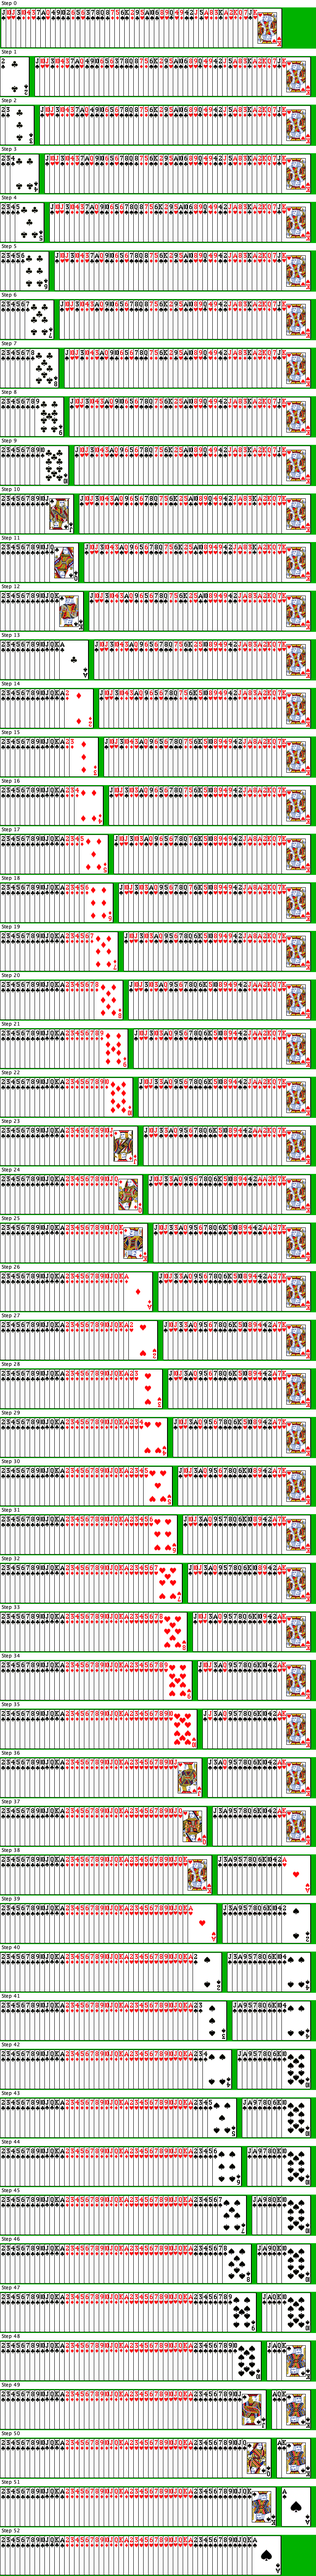
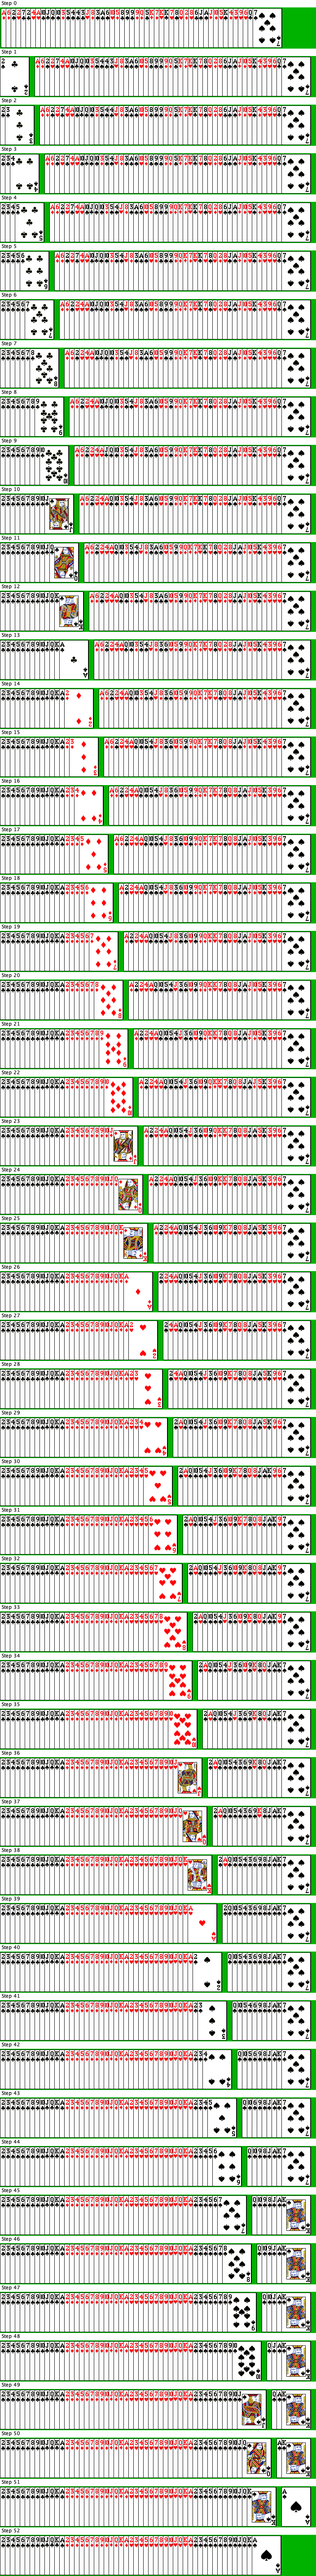
Insertion sort

diff --git a/InsertionSort.java b/InsertionSort.java
@@ -1,13 +1,51 @@
+import java.util.Collections;
+import java.util.ListIterator;
+
+/**
+ * Program to sort cards via Insertion Sort
+ * Sorting algorithm that 
+ * 
+ * @author Abigail Lei
+ * @version March 2026
+ */
 public class InsertionSort {
   
+  public static CardPile sort(CardPile unsorted) {
+    return sort(unsorted, null);
+  }
   public static CardPile sort(CardPile unsorted, SortRecorder record) {
     
     // register the starting configuration with the recorder
-    record.add(unsorted);
+    if (record != null) {
+      record.add(unsorted);
+    }
 
     // Here is the result list you will be creating
     CardPile sorted = new CardPile();
   
+    while (unsorted.size() > 0) {
+      Card added = unsorted.removeFirst();
+      ListIterator<Card> iterator = sorted.listIterator();
+      
+      while (iterator.hasNext()) {
+        Card current = iterator.next();
+        if (added.compareTo(current) <= 0) {
+          iterator.previous();
+          iterator.add(added);
+          break;
+        }
+      }
+      
+      if (!iterator.hasNext()) {
+        iterator.add(added);
+      }
+
+      if (record != null) {
+        record.next();
+        record.add(sorted);
+        record.add(unsorted);
+      }
+    }
     // ***********************************************************
     // Here is where you'll do the "work" of InsertionSort:
     //   - Use sorted to store the "sorted portion"
@@ -18,5 +56,29 @@ public class InsertionSort {
 
     // return the sorted result here
     return sorted;
+  }
+
+    public static void main(String[] args) {
+      SortRecorder recorder = new SortRecorder();
+
+      // set up the deck of cards
+      Card.loadImages(recorder);
+      CardPile cards = new CardPile(Card.newDeck(true), 2, 2);
+
+      // for debugging purposes, uncomment this to
+      // work with a smaller number of cards:
+      // cards = cards.split(cards.get(39));
+
+      // mix up the cards
+      Collections.shuffle(cards);
+
+      // in your program, this would be a call to a real sorting algorithm
+      cards = InsertionSort.sort(cards, recorder);
+
+      // We can print out the (un)sorted result:
+      System.out.println(cards);
+
+      // make window appear showing the record
+      recorder.display("Card Sort Demo: InsertionSort");
   }
 }

diff --git a/README.md b/README.md
@@ -5,7 +5,7 @@ CSC 210: Data Structures
 
 Your readme should include the following information.
 
-Your name:
+Your name: Abigail
 
 Other collaborators: 
 
@@ -14,6 +14,8 @@ Was anyone particularly helpful? Give them a shout-out here:
 ## References
 
 References used (besides JavaDoc and course materials):
+https://www.geeksforgeeks.org/java/listiterator-in-java/
+https://stackoverflow.com/questions/13013480/linkedlist-checkforcomodification-error-java 
 
 If you used AI at all for this assignment: How did you use it? What did this experience teach you?
 
